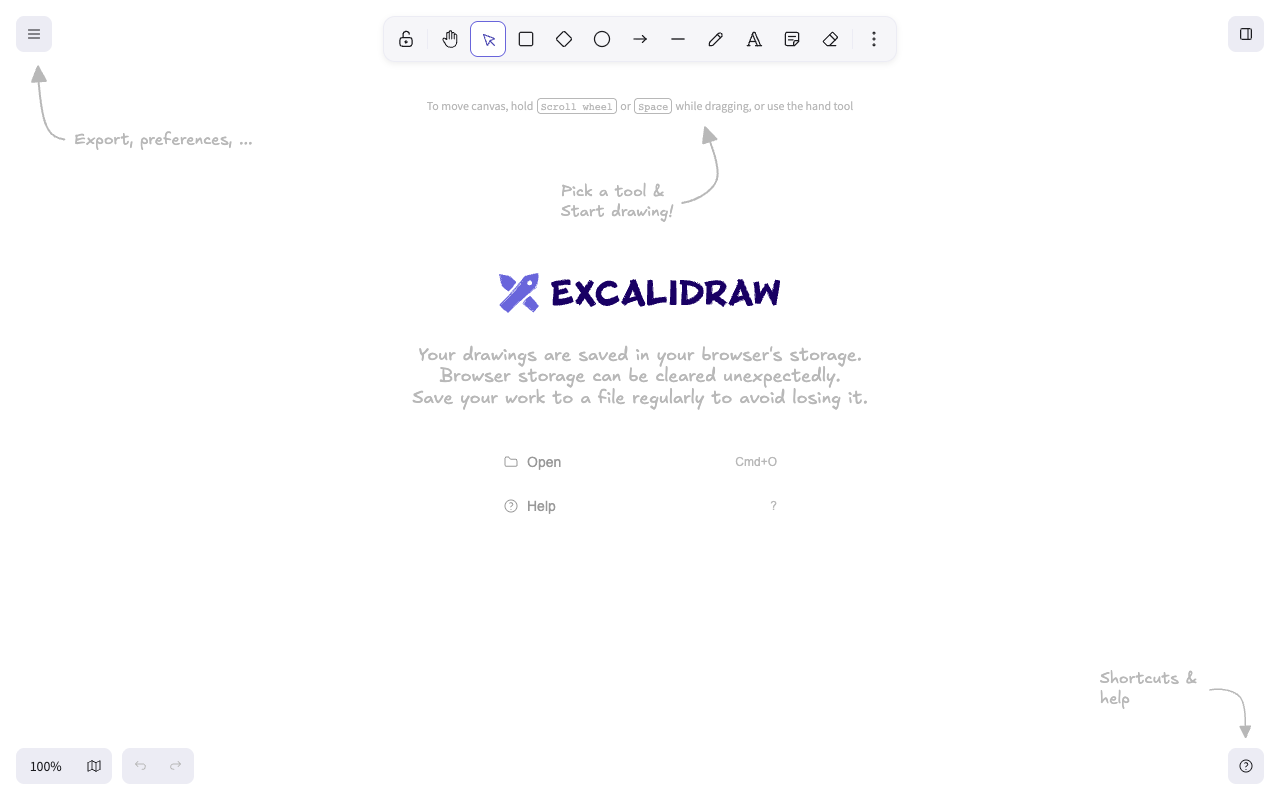
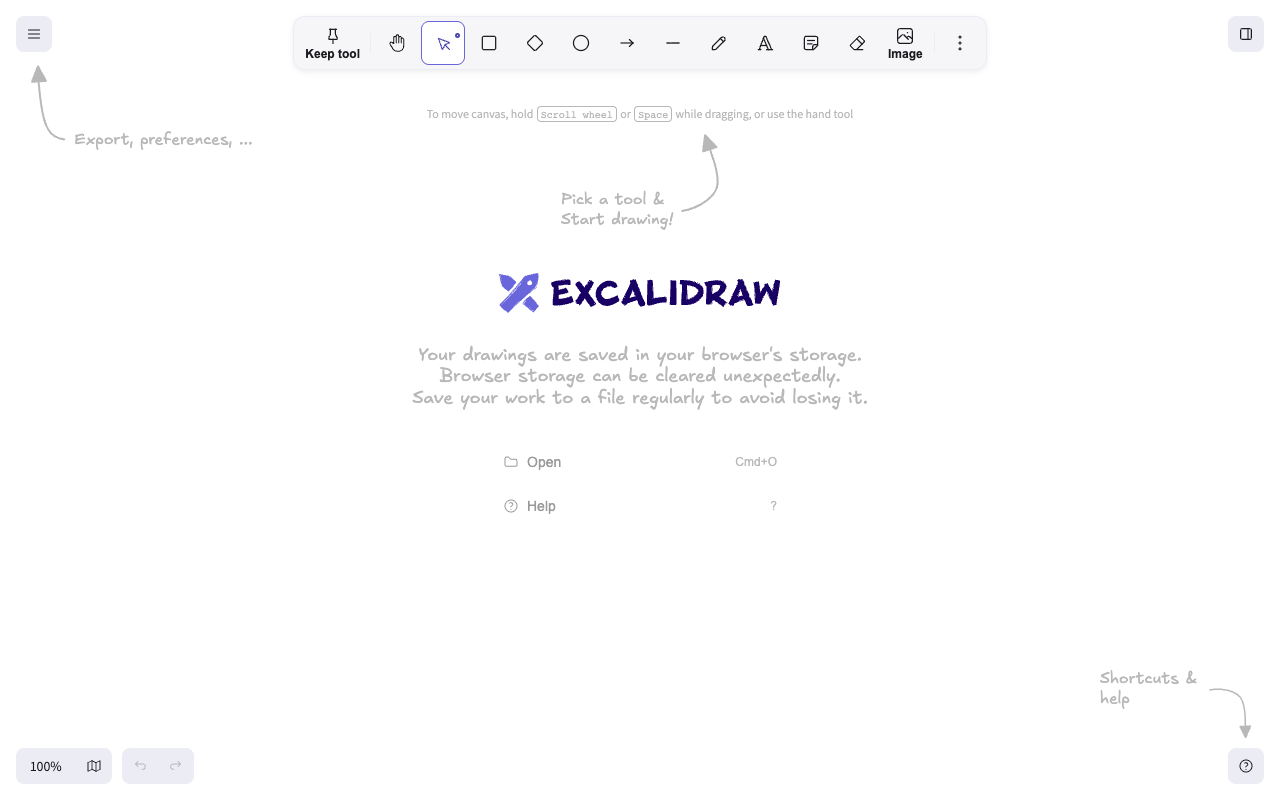
toolbar: Make Image and Keep tool easier to find
Use targeted labels, larger targets, and a distinct selected marker in Hover Motion. Include the practice evidence and findings page for review.

diff --git a/src/workshop/toolbars/hover-motion.css b/src/workshop/toolbars/hover-motion.css
@@ -6,6 +6,7 @@
 
 .toolbar-hover-motion .hover-motion-rail {
   display: flex;
+  justify-content: center;
   align-items: center;
   gap: 2px;
   padding: 4px;
@@ -17,12 +18,15 @@
 
 .toolbar-hover-motion .hover-motion-button {
   position: relative;
-  display: grid;
-  place-items: center;
+  display: flex;
+  flex-direction: column;
+  align-items: center;
+  justify-content: center;
+  gap: 2px;
   flex: none;
-  width: 36px;
-  height: 36px;
-  padding: 0;
+  min-width: 44px;
+  height: 44px;
+  padding: 0 6px;
   border: 1px solid transparent;
   border-radius: 8px;
   background: transparent;
@@ -54,6 +58,13 @@
   inset-inline-start: -5px;
 }
 
+.toolbar-hover-motion .hover-motion-caption {
+  font-size: 0.75rem;
+  font-weight: 600;
+  line-height: 1;
+  white-space: nowrap;
+}
+
 .toolbar-hover-motion
   .hover-motion-button:is([aria-pressed="true"], [data-active]) {
   border-color: var(--color-primary);
@@ -83,10 +94,25 @@
 }
 
 .toolbar-hover-motion .hover-motion-icon {
+  position: relative;
   display: grid;
   place-items: center;
   width: 20px;
   height: 20px;
+}
+
+.toolbar-hover-motion
+  .hover-motion-button:is([aria-pressed="true"], [data-active])
+  > .hover-motion-icon::before {
+  position: absolute;
+  inset-block-start: 0;
+  inset-inline-end: -7px;
+  box-sizing: border-box;
+  width: 5px;
+  height: 5px;
+  border: 2px solid currentColor;
+  border-radius: 50%;
+  content: "";
 }
 
 .toolbar-hover-motion .hover-motion-icon svg {
@@ -112,6 +138,11 @@
   font: 500 0.75rem / 1.25 var(--ui-font);
   white-space: nowrap;
   pointer-events: none;
+}
+
+.toolbar-hover-motion .hover-motion-lock .hover-motion-label {
+  left: 0;
+  transform: none;
 }
 
 .toolbar-hover-motion
@@ -160,7 +191,7 @@
   display: flex;
   align-items: center;
   gap: 8px;
-  min-height: 34px;
+  min-height: 44px;
   padding: 0 8px;
   border-radius: 6px;
   font-size: 0.8125rem;
@@ -179,6 +210,30 @@
 
 .toolbar-hover-motion .hover-motion-menu-item .hover-motion-key {
   margin-inline-start: auto;
+}
+
+@media (max-width: 800px) {
+  .toolbar-hover-motion .hover-motion-rail {
+    flex-wrap: wrap;
+    width: min(24rem, calc(100vw - 7rem));
+  }
+
+  .toolbar-hover-motion .hover-motion-button {
+    position: static;
+  }
+
+  .toolbar-hover-motion :is(.hover-motion-lock, .hover-motion-more) {
+    margin-inline: 0;
+  }
+
+  .toolbar-hover-motion :is(.hover-motion-lock, .hover-motion-more)::before {
+    display: none;
+  }
+
+  .toolbar-hover-motion .hover-motion-lock .hover-motion-label {
+    left: 50%;
+    transform: translateX(-50%);
+  }
 }
 
 @media (prefers-reduced-motion: no-preference) {
@@ -231,11 +286,12 @@
   }
 
   .toolbar-hover-motion
-    [data-tool="freedraw"]:not(:disabled):is(:hover, :focus-visible)::after {
+    [data-tool="freedraw"]:not(:disabled):is(:hover, :focus-visible)
+    .hover-motion-icon::after {
     position: absolute;
     content: "";
-    bottom: 6px;
-    left: 10px;
+    bottom: -2px;
+    left: 2px;
     width: 7px;
     height: 1px;
     border-radius: 1px;

diff --git a/src/workshop/toolbars/hover-motion.tsx b/src/workshop/toolbars/hover-motion.tsx
@@ -1,10 +1,6 @@
 import { DropdownMenu } from "radix-ui";
 
-import {
-  DotsIcon,
-  LockedIcon,
-  UnlockedIcon,
-} from "@excalidraw/excalidraw/components/icons";
+import { DotsIcon, PinIcon } from "@excalidraw/excalidraw/components/icons";
 import { t } from "@excalidraw/excalidraw/i18n";
 
 import type { ToolbarMeta, ToolbarProps, ToolbarTool } from "../types";
@@ -24,13 +20,19 @@ function ButtonFace({
   icon,
   label,
   shortcut,
+  caption,
 }: Pick<ToolbarTool, "icon" | "label"> &
-  Partial<Pick<ToolbarTool, "shortcut">>) {
+  Partial<Pick<ToolbarTool, "shortcut">> & { caption?: string }) {
   return (
     <>
       <span className="hover-motion-icon" aria-hidden="true">
         {icon}
       </span>
+      {caption && (
+        <span className="hover-motion-caption" aria-hidden="true">
+          {caption}
+        </span>
+      )}
       <span className="hover-motion-label" aria-hidden="true">
         {label}
         <KeyHint shortcut={shortcut} />
@@ -48,14 +50,17 @@ export default function HoverMotionToolbar({
   app,
   appState,
 }: ToolbarProps) {
-  const mainTools = tools.filter((tool) => tool.group === "main");
-  const extraTools = tools.filter(
+  const mainTools = tools.filter(
     (tool) =>
-      tool.group === "more" &&
-      (tool.type !== "image" || app.props.UIOptions.tools?.image !== false),
+      tool.group === "main" ||
+      (tool.type === "image" && app.props.UIOptions.tools?.image !== false),
+  );
+  const extraTools = tools.filter(
+    (tool) => tool.group === "more" && tool.type !== "image",
   );
   const activeExtra = extraTools.find((tool) => tool.active);
-  const lockLabel = t("toolBar.lock");
+  const lockLabel = t("toolBar.keepTool");
+  const lockHint = t("toolBar.keepToolHint");
   const moreLabel = t("toolBar.extraTools");
 
   return (
@@ -70,14 +75,16 @@ export default function HoverMotionToolbar({
             type="button"
             className="hover-motion-button hover-motion-lock"
             aria-label={lockLabel}
+            aria-description={lockHint}
             aria-keyshortcuts="Q"
             aria-pressed={locked}
             data-testid="toolbar-lock"
             onClick={toggleLock}
           >
             <ButtonFace
-              icon={locked ? LockedIcon : UnlockedIcon}
-              label={lockLabel}
+              icon={PinIcon}
+              label={lockHint}
+              caption={lockLabel}
               shortcut="Q"
             />
           </button>
@@ -106,6 +113,7 @@ export default function HoverMotionToolbar({
                 icon={tool.icon}
                 label={tool.label}
                 shortcut={shortcut}
+                caption={tool.type === "image" ? t("element.image") : undefined}
               />
             </button>
           );

diff --git a/review/findings.html b/review/findings.html
@@ -1,0 +1,60 @@
+<!DOCTYPE html>
+<html lang="en">
+  <head>
+    <meta charset="utf-8" />
+    <meta name="viewport" content="width=device-width, initial-scale=1" />
+    <title>Practice findings: Excalidraw case study</title>
+    <link rel="stylesheet" href="theme.css" />
+    <link rel="stylesheet" href="review.css" />
+  </head>
+  <body>
+    <main class="page">
+      <header class="header">
+        <p class="kicker">Excalidraw case study</p>
+        <h1 class="title">What we changed in Hover Motion</h1>
+        <p class="summary">
+          Put Image and Keep tool in plain sight. Keep the other labels and
+          shortcuts available on hover and keyboard focus.
+        </p>
+        <div class="actions">
+          <a class="button button--primary" href="../?toolbar=hover-motion">Try Hover Motion</a>
+          <a class="button" href="./">Back to the toolbar comparison</a>
+        </div>
+      </header>
+
+      <section class="section" aria-labelledby="findings">
+        <h2 class="section__title" id="findings">Top findings</h2>
+        <ol>
+          <li>
+            <p><strong>3 of 6 did not finish the repeat-drawing task.</strong>
+              P5: “Keep tool... keep it where?”</p>
+            <p>We gave the toggle a visible pin and a tooltip that explains
+              what stays active after drawing.</p>
+          </li>
+          <li>
+            <p><strong>1 of 6 missed Image on a tablet; 5 of 6 added a photo.</strong>
+              P6: “Image being right there is great. Last time I couldn't find it at all.”</p>
+            <p>We moved Image onto the rail and kept 44 px targets even when
+              the toolbar wraps on narrow layouts.</p>
+          </li>
+          <li>
+            <p><strong>6 of 6 finished boxes and arrows.</strong>
+              P1: “Oh, they have names now. That's all I needed.”
+              P2: “I'd turn the words off after a day, but today I need them.”</p>
+            <p>We kept contextual names and shortcuts, turned animation off
+              for reduced motion, and added a dot to mark the selected tool.</p>
+          </li>
+        </ol>
+      </section>
+
+      <footer class="footer">
+        <p>
+          Fictional AI-First Design Workshop practice material. Six first-time
+          users tried a different, labeled prototype, not Hover Motion.
+          These observations and separate stakeholder feedback suggest what to
+          retest; they don't show that the changes improved performance.
+        </p>
+      </footer>
+    </main>
+  </body>
+</html>

diff --git a/review/index.html b/review/index.html
@@ -23,6 +23,7 @@
         </p>
         <div class="actions" id="actions">
           <a class="button button--primary" href="../">Open the app</a>
+          <a class="button" href="findings.html">Practice findings</a>
         </div>
       </header>
       <div id="content" aria-live="polite"></div>

diff --git a/workshop/practice/readout.md b/workshop/practice/readout.md
@@ -1,0 +1,49 @@
+# Practice research readout: Hover Motion
+
+**Recommendation:** Keep Hover Motion's compact layout. Put **Image** on the rail, make **Keep tool** a labeled pin with a plain-language explanation, and give controls 44 px targets and a selected cue that doesn't rely on hue. Keep other names and shortcuts on hover and keyboard focus, with the animation off for reduced motion.
+
+This is fictional workshop material, not Excalidraw research or a test of Hover Motion. The quotes below are verbatim from the practice files.
+
+## 1. Repeat drawing still breaks down — 3 of 6 did not complete the task
+
+Three of six drew five circles without returning to the toolbar. The study summary says half did not connect “Keep tool” with drawing several shapes; it does not identify all three participants.
+
+- **P5, study:** “Keep tool... keep it where?”
+- **Support specialist, feedback on Playful (not a study participant):** “The pin with 'Keep tool' under it finally explains the lock. Could the tooltip say what it does in a full sentence?”
+
+**Counterpoint:** The other three completed the task. The pin feedback is a rationale for trying it, not evidence that it improves completion. **Confidence: high** that the task was a struggle in this exercise; **medium** that the label alone was the cause.
+
+## 2. Image needs to stay in view — 1 of 6 missed it on tablet
+
+Five of six added a photo. P4 couldn't see Image when the labeled toolbar scrolled; P6 found the visible button helpful.
+
+- **P4, study:** “The labels make it wider than my screen.”
+- **P6, study:** “Image being right there is great. Last time I couldn't find it at all.”
+
+**Counterpoint:** Most participants succeeded, and the study had only one tablet participant. P6's earlier difficulty was self-reported, not a baseline measurement. **Confidence: medium** for keeping Image visible; there isn't enough evidence to estimate how common the tablet problem is.
+
+## 3. Labels helped people get started — 6 of 6 completed boxes and arrows
+
+All six found the box and arrow tools and finished the basic diagram. The researcher reported in the design review that **5 of 6** found every tool on their first try. Neither result isolates the effect of labels.
+
+- **P1, study:** “Oh, they have names now. That's all I needed.”
+- **P2, study:** “I'd turn the words off after a day, but today I need them.”
+
+**Counterpoint:** P4 reported width problems, and P3 reported small targets: “My finger keeps hitting the one next to the one I want.” **Confidence: medium** that names help first use; **low** that all names should always be shown.
+
+## Participant evidence
+
+| Participant | Key moment documented in the study |
+| --- | --- |
+| P1 | Recognized tools by their names. |
+| P2 | Wanted labels on day one, but not indefinitely. |
+| P3 | Hit adjacent tools on a touch laptop. |
+| P4 | Couldn't see Image when the labeled toolbar scrolled on a tablet. |
+| P5 | Didn't understand the Keep tool name. |
+| P6 | Valued Image on the toolbar; looked for a label tool before double-clicking a box. |
+
+## Method and limits
+
+The [study results](study-results.md) come from six first-time Excalidraw users in a remote, unmoderated exercise with a labeled prototype. The [design review](design-review-transcript.md) and [feedback](feedback.md) discuss that prototype and the Playful direction; they are not additional participants from the six. The separate **31 of 40** survey preference was for Playful, not Hover Motion. Stakeholder input sets design checks (subtle motion, reduced motion, contrast, and 44 px targets); it does not establish usability outcomes.
+
+This exercise can surface first-use problems, not establish why people respond that way or replace talking to them. Retest repeat drawing and image discovery on the revised Hover Motion, including on a narrow tablet and with reduced motion on. Keep Original reachable for comparison.
